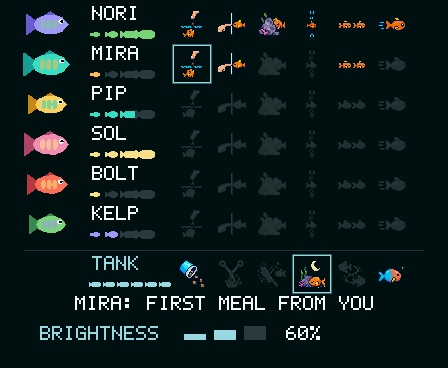
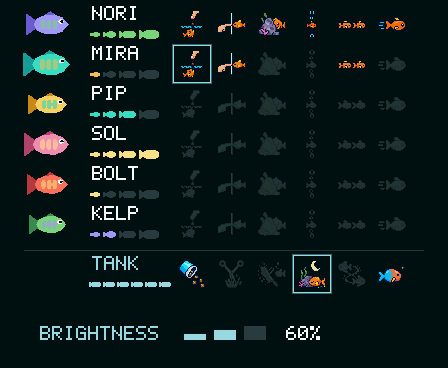
Milestones page: detail modal, growth strip spacing (resync from dev)

diff --git a/common/render.c b/common/render.c
@@ -1007,15 +1007,19 @@ bool render_brightness_row_hit(float x, float y) {
  * The tank row repeats the shape with the population strip. A locked badge
  * is the art as a flat grey silhouette (blit_icon_locked); a badge earned
  * since the keeper last closed the page wears a two-tone ring. Tapping a
- * badge / a name / a strip writes a caption line above the brightness row;
- * the caption is render-local state, cleared by render_milestones_leave. */
+ * badge / a name / a strip opens a small detail modal in the reset prompt's
+ * dress (the art at 2x, a title, the words); the next tap anywhere closes
+ * it back to the page. Render-local state, cleared by render_milestones_leave. */
 #define MSP_ROW_Y0    4
 #define MSP_ROW_H     40
 #define MSP_TANK_Y    254
 #define MSP_BADGE_X0  176
 #define MSP_BADGE_DX  40
 #define MSP_ICON      32
-#define MSP_CAPTION_Y 296
+#define MSP_MODAL_X   56
+#define MSP_MODAL_Y   100
+#define MSP_MODAL_W   336
+#define MSP_MODAL_H   156
 #define MSP_INK       0x031015
 #define MSP_DIM       0x2a3f45
 #define MSP_TEAL      0x9fd8e2
@@ -1032,24 +1036,41 @@ static const badge_t TANK_BADGES[6] = {
     { TMS_FIRST_PLAY_SESSION, &icon_ms_first_play_session }, { TMS_CHANGED_SOMEONE, &icon_ms_tank_changed_someone },
 };
 static const char *const STAGE_WORDS[4] = { "FRY", "JUVENILE", "ADULT", "ELDER" };
-static char g_ms_caption[72];
-static bool g_ms_caption_lit;
+/* the detail modal (a tap on a badge / name / strip): what to show until
+ * the next tap. caption[0] == 0 means no modal. */
+static char g_ms_caption[72], g_ms_title[16];
+static bool g_ms_lit;
+static const icon_t *g_ms_icon;      /* the badge's art, or NULL */
+static int  g_ms_fish = -1;          /* a fish's own sprite instead, or -1 */
 
 /* a locked badge: the same art as a flat grey silhouette - luminance keeps
  * the shapes readable, the low alpha keeps it quiet on the ink */
+static uint32_t locked_rgb(uint16_t v) {
+    int r = (v >> 11) << 3, g = ((v >> 5) & 63) << 2, b = (v & 31) << 3;
+    int l = (r * 77 + g * 151 + b * 28) >> 8;                /* 0..255 luminance */
+    int k = 140 + l * 115 / 255;                              /* 0.55 .. 1.0, in 1/255 */
+    return (uint32_t)(20 + (0x2a * k >> 8)) << 16 | (uint32_t)(20 + (0x3f * k >> 8)) << 8
+         | (uint32_t)(20 + (0x45 * k >> 8));
+}
 static void blit_icon_locked(ctx_t *c, int x, int y, const icon_t *ic) {
+    for (int j = 0; j < ic->h; j++)
+        for (int i = 0; i < ic->w; i++) {
+            int a = ic->a[j * ic->w + i];
+            if (a) px_blend(c, x + i, y + j, locked_rgb(ic->rgb[j * ic->w + i]), a * 180 >> 8);
+        }
+}
+/* the same art at an integer scale (the detail modal), lit or as the silhouette */
+static void blit_icon_scaled(ctx_t *c, int x, int y, const icon_t *ic, int s, bool lit) {
     for (int j = 0; j < ic->h; j++)
         for (int i = 0; i < ic->w; i++) {
             int a = ic->a[j * ic->w + i];
             if (!a) continue;
             uint16_t v = ic->rgb[j * ic->w + i];
-            int r = (v >> 11) << 3, g = ((v >> 5) & 63) << 2, b = (v & 31) << 3;
-            int l = (r * 77 + g * 151 + b * 28) >> 8;            /* 0..255 luminance */
-            int k = 140 + l * 115 / 255;                          /* 0.55 .. 1.0, in 1/255 */
-            uint32_t rgb = (uint32_t)(20 + (0x2a * k >> 8)) << 16
-                         | (uint32_t)(20 + (0x3f * k >> 8)) << 8
-                         | (uint32_t)(20 + (0x45 * k >> 8));
-            px_blend(c, x + i, y + j, rgb, a * 180 >> 8);
+            for (int yy = 0; yy < s; yy++)
+                for (int xx = 0; xx < s; xx++) {
+                    if (lit) px565_blend(c, x + i * s + xx, y + j * s + yy, v, a);
+                    else     px_blend(c, x + i * s + xx, y + j * s + yy, locked_rgb(v), a * 180 >> 8);
+                }
         }
 }
 /* a tiny fish glyph facing right (the growth and population strips) */
@@ -1076,8 +1097,9 @@ void render_milestones(const tank_t *t, uint16_t *fb, int stride) {
         int top = MSP_ROW_Y0 + i * MSP_ROW_H;
         render_fish_preview(fb, stride, 52, top + 20, f->size, f->color, f->fin, f->accent, t->clock);
         draw_text(&c, 92, top + 2, 2, 0xffffff, f->name);
+        static const int GX[4] = { 96, 111, 129, 151 };   /* each glyph's own pitch: a 4 px gap as they grow */
         for (int s = 0; s < 4; s++)          /* growth strip: fry -> elder, lit up to the stage reached */
-            fish_glyph(&c, 96 + s * 17, top + 30, 2.2f + s * 0.9f, s <= (int)f->stage ? f->accent : MSP_DIM);
+            fish_glyph(&c, GX[s], top + 30, 2.2f + s * 0.9f, s <= (int)f->stage ? f->accent : MSP_DIM);
         for (int k = 0; k < 6; k++) {
             uint32_t bit = FISH_BADGES[k].bit;
             badge(&c, MSP_BADGE_X0 + k * MSP_BADGE_DX, top + 4, FISH_BADGES[k].icon,
@@ -1088,18 +1110,30 @@ void render_milestones(const tank_t *t, uint16_t *fb, int stride) {
     for (int x = 24; x < TANK_W - 24; x++) px_blend(&c, x, MSP_TANK_Y - 4, MSP_DIM, 200);
     draw_text(&c, 92, MSP_TANK_Y + 2, 2, MSP_TEAL, "TANK");
     for (int k = 0; k < POP_CAP; k++)        /* population strip: who is here, who could still arrive */
-        fish_glyph(&c, 96 + k * 14, MSP_TANK_Y + 30, 3.0f, k < t->n_fish ? MSP_TEAL : MSP_DIM);
+        fish_glyph(&c, 96 + k * 14, MSP_TANK_Y + 30, 2.8f, k < t->n_fish ? MSP_TEAL : MSP_DIM);
     for (int k = 0; k < 6; k++) {
         uint32_t bit = TANK_BADGES[k].bit;
         badge(&c, MSP_BADGE_X0 + k * MSP_BADGE_DX, MSP_TANK_Y + 4, TANK_BADGES[k].icon,
               (t->tank_ms_bits & bit) != 0, (t->tank_ms_seen & bit) == 0);
     }
-    if (g_ms_caption[0])
-        draw_text(&c, (TANK_W - text_w(g_ms_caption, 2)) / 2, MSP_CAPTION_Y, 2,
-                  g_ms_caption_lit ? 0xffffff : MSP_TEAL, g_ms_caption);
+    /* the detail modal, in the reset prompt's dress: the art at 2x, a title
+       (the fish's name / TANK, or NOT YET), the milestone's words */
+    if (g_ms_caption[0]) {
+        const int X = MSP_MODAL_X, Y = MSP_MODAL_Y, W = MSP_MODAL_W, H = MSP_MODAL_H;
+        rect_fill(&c, X, Y, W, H, 0x04141a);
+        rect_edge(&c, X, Y, W, H, MSP_TEAL); rect_edge(&c, X + 1, Y + 1, W - 2, H - 2, 0x1c2f36);
+        if (g_ms_icon) blit_icon_scaled(&c, X + (W - 64) / 2, Y + 16, g_ms_icon, 2, g_ms_lit);
+        else if (g_ms_fish >= 0 && g_ms_fish < t->n_fish) {
+            const fish_t *f = &t->fish[g_ms_fish];
+            render_fish_preview(fb, stride, X + W / 2, Y + 48, f->size * 1.6f, f->color, f->fin, f->accent, t->clock);
+        }
+        draw_text(&c, X + (W - text_w(g_ms_title, 3)) / 2, Y + 92, 3, g_ms_lit ? 0xffffff : MSP_TEAL, g_ms_title);
+        draw_text(&c, X + (W - text_w(g_ms_caption, 2)) / 2, Y + 124, 2, g_ms_lit ? MSP_TEAL : 0x5f8a92, g_ms_caption);
+    }
 }
 
 bool render_milestones_tap(const tank_t *t, float x, float y) {
+    if (g_ms_caption[0]) { render_milestones_leave(); return true; }   /* any tap: back to the page */
     int row = -1; bool tank_row = false;
     if (y >= MSP_ROW_Y0 - 2 && y < MSP_ROW_Y0 + N_FISH_MAX * MSP_ROW_H) {
         row = (int)((y - MSP_ROW_Y0) / MSP_ROW_H);
@@ -1115,24 +1149,28 @@ bool render_milestones_tap(const tank_t *t, float x, float y) {
     else return false;
     if (tank_row) {
         if (k < 0) {
+            snprintf(g_ms_title, sizeof g_ms_title, "TANK");
             snprintf(g_ms_caption, sizeof g_ms_caption, "%d OF %d FISH SO FAR", t->n_fish, POP_CAP);
-            g_ms_caption_lit = true;
+            g_ms_lit = true; g_ms_icon = NULL; g_ms_fish = -1;
         } else {
             uint32_t bit = TANK_BADGES[k].bit; bool on = (t->tank_ms_bits & bit) != 0;
-            snprintf(g_ms_caption, sizeof g_ms_caption, "%s: %s", on ? "TANK" : "NOT YET", TMS_NAMES[bit_index(bit)]);
-            g_ms_caption_lit = on;
+            snprintf(g_ms_title, sizeof g_ms_title, on ? "TANK" : "NOT YET");
+            snprintf(g_ms_caption, sizeof g_ms_caption, "%s", TMS_NAMES[bit_index(bit)]);
+            g_ms_lit = on; g_ms_icon = TANK_BADGES[k].icon; g_ms_fish = -1;
         }
     } else {
         const fish_t *f = &t->fish[row];
         if (k < 0) {
-            snprintf(g_ms_caption, sizeof g_ms_caption, "%s: %s", f->name, STAGE_WORDS[f->stage & 3]);
-            g_ms_caption_lit = true;
+            snprintf(g_ms_title, sizeof g_ms_title, "%s", f->name);
+            snprintf(g_ms_caption, sizeof g_ms_caption, "%s", STAGE_WORDS[f->stage & 3]);
+            g_ms_lit = true; g_ms_icon = NULL; g_ms_fish = row;
         } else {
             uint32_t bit = FISH_BADGES[k].bit; bool on = (f->ms_bits & bit) != 0;
-            snprintf(g_ms_caption, sizeof g_ms_caption, "%s: %s", on ? f->name : "NOT YET", MS_NAMES[bit_index(bit)]);
-            g_ms_caption_lit = on;
+            snprintf(g_ms_title, sizeof g_ms_title, "%s", on ? f->name : "NOT YET");
+            snprintf(g_ms_caption, sizeof g_ms_caption, "%s", MS_NAMES[bit_index(bit)]);
+            g_ms_lit = on; g_ms_icon = FISH_BADGES[k].icon; g_ms_fish = -1;
         }
     }
     return true;
 }
-void render_milestones_leave(void) { g_ms_caption[0] = 0; }
+void render_milestones_leave(void) { g_ms_caption[0] = 0; g_ms_title[0] = 0; g_ms_icon = NULL; g_ms_fish = -1; }

diff --git a/sim/main.c b/sim/main.c
@@ -739,9 +739,11 @@ static int snapshot(const char *prefix, int seconds) {
     for (int i = 0; i < tank.n_fish; i++) tank.fish[i].ms_seen = tank.fish[i].ms_bits;
     tank.tank_ms_seen = tank.tank_ms_bits;
     tank.fish[1].ms_seen &= ~MS_FIRST_MEAL_FROM_YOU; tank.tank_ms_seen &= ~TMS_FIRST_QUIET_NIGHT;
-    render_milestones_tap(&tank, 176 + 16, 4 + 40 + 20);
     render_milestones(&tank, fb, TANK_W); render_brightness_row(fb, TANK_W, 60);
     snprintf(path, sizeof path, "%s_milestones.ppm", prefix); write_ppm(path, fb);
+    render_milestones_tap(&tank, 176 + 16, 4 + 40 + 20);           /* fish 1's first badge -> the detail modal */
+    render_milestones(&tank, fb, TANK_W); render_brightness_row(fb, TANK_W, 60);
+    snprintf(path, sizeof path, "%s_milestone_modal.ppm", prefix); write_ppm(path, fb);
     render_milestones_leave();
     render_tank(&tank, fb, TANK_W); render_confirm_reset(fb, TANK_W, 0.7f);
     snprintf(path, sizeof path, "%s_confirm.ppm", prefix); write_ppm(path, fb);
@@ -977,9 +979,9 @@ int main(int argc, char **argv) {
             }
             else if (setup_up) { /* the setup owns the glass: setup_touch took it */ }
             else if (milestones_view) {
-                if (render_brightness_row_hit((float)press_x, (float)press_y))
+                if (render_milestones_tap(&tank, (float)press_x, (float)press_y)) { /* a badge / name: detail modal; or the modal closing */ }
+                else if (render_brightness_row_hit((float)press_x, (float)press_y))
                     sim_bright = sim_bright == 100 ? 60 : sim_bright == 60 ? 30 : 100;   /* the row cycles, the page stays */
-                else if (render_milestones_tap(&tank, (float)press_x, (float)press_y)) { /* a badge / name: caption, page stays */ }
                 else { milestones_view = false; progression_ack_milestones(&tank); render_milestones_leave(); }
             }
             else if (now_ms - press_ms < 350 && dx * dx + dy * dy < 24 * 24) {

diff --git a/firmware/main/touch_port_ft3168.c b/firmware/main/touch_port_ft3168.c
@@ -112,12 +112,12 @@ void touch_port_poll(tank_t *t) {
         if (now - s_press_us < 350000 && dx * dx + dy * dy < 24 * 24) {
             if (s_ms) {                                             /* the page closes on any tap, card too -
                                                                        except its brightness row, which cycles */
-                bool row = render_brightness_row_hit(s_px, s_py);
-                bool kept = !row && render_milestones_tap(t, s_px, s_py);   /* a badge / name: caption, the page stays */
+                bool kept = render_milestones_tap(t, s_px, s_py);   /* a badge / name: detail modal (or the modal closing) - page stays */
+                bool row = !kept && render_brightness_row_hit(s_px, s_py);
                 ESP_LOGI(TAG, "page tap at %.0f,%.0f (release %.0f,%.0f) -> %s", s_px, s_py, s_lx, s_ly,
-                         row ? "brightness row" : kept ? "caption" : "close");
-                if (row) { s_bright_tap = true; goto released; }
+                         kept ? "detail" : row ? "brightness row" : "close");
                 if (kept) goto released;
+                if (row) { s_bright_tap = true; goto released; }
                 s_ms = false; s_sel = -1;
                 progression_ack_milestones(t); render_milestones_leave();   /* everything shown is now "seen" */
                 goto released;

diff --git a/common/render.h b/common/render.h
@@ -65,9 +65,11 @@ void render_battery(uint16_t *fb, int stride, float frac, bool charging);
  * tank's row below with the population strip and six tank badges. A locked
  * badge is the same picture as a grey silhouette; one earned since the
  * keeper last closed the page wears a ring. render_milestones_tap maps a
- * tap: a badge, a name or a strip puts a caption at the foot and returns
- * true (the page stays); anywhere else returns false and the caller closes
- * the page, then progression_ack_milestones + render_milestones_leave. */
+ * tap: a badge, a name or a strip opens a small detail modal (the art at
+ * 2x, a title, the words) and returns true; while the modal is up ANY tap
+ * closes it and returns true (the page stays). Otherwise it returns false
+ * and the caller closes the page, then progression_ack_milestones +
+ * render_milestones_leave. Callers try it BEFORE the brightness row. */
 void render_milestones(const tank_t *t, uint16_t *fb, int stride);
 bool render_milestones_tap(const tank_t *t, float x, float y);
 void render_milestones_leave(void);

diff --git a/README.md b/README.md
@@ -152,7 +152,8 @@ tank's row below tracks the population and the firsts you share: first
 feeding, first trimming, first glass cleaning, first quiet night, first play
 session, the tank changed someone. A locked badge is the same picture as a
 grey silhouette; one earned since you last looked wears a ring. Tap a badge
-to read it; tap anywhere else to close the page.
+to read it (a small panel; tap again to dismiss); tap anywhere else to close
+the page.
 
 ![The milestones page](docs/media/sim-milestones.png)
 
